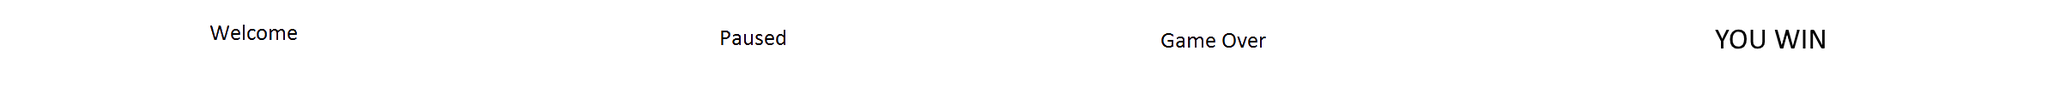
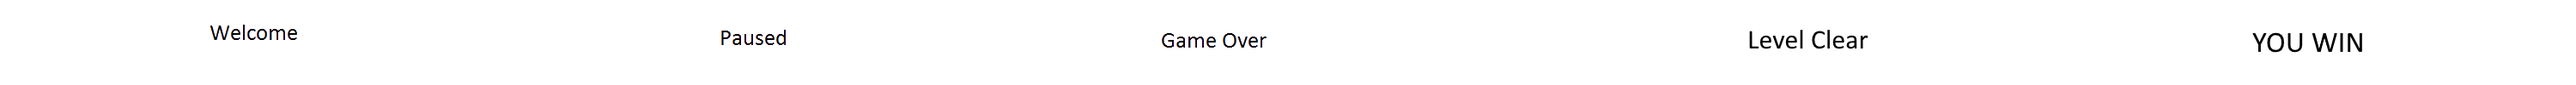
Menü verbessert, zueigt jetzt die richtigen Poausenachrichten an

diff --git a/src/LevelVerwaltung/SpielerVerwaltung/PlayerController.java b/src/LevelVerwaltung/SpielerVerwaltung/PlayerController.java
@@ -55,25 +55,25 @@ public class PlayerController {
             if (input.isKeyDown(Input.KEY_LEFT)) {
                 l.addShot(new Shot(
                     p.getWeapon().getProjectileImagePath(),
-                        p.getX()-4, p.getY() + p.getHeight() *2/3, 20, 5, 1, -p.getWeapon().getSpeed(), 0,p.getWeapon().isGravity()
+                        p.getX()-24, p.getY() + p.getHeight() *2/3, 20, 5, 1, -p.getWeapon().getSpeed(), 0,p.getWeapon().isGravity(), p.getWeapon().getDamage()
                 ));
                 p.setWeaponCooldownTicks(p.getWeapon().getCooldownTicks());
             } else if (input.isKeyDown(Input.KEY_RIGHT)) {
                 l.addShot(new Shot(
                         p.getWeapon().getProjectileImagePath(),
-                        p.getX()+ p.getWidth() + 4, p.getY() + p.getHeight() *2/3, 20, 5, 1, p.getWeapon().getSpeed(), 0,p.getWeapon().isGravity()
+                        p.getX()+ p.getWidth() + 4, p.getY() + p.getHeight() *2/3, 20, 5, 1, p.getWeapon().getSpeed(), 0,p.getWeapon().isGravity(), p.getWeapon().getDamage()
                 ));
                 p.setWeaponCooldownTicks(p.getWeapon().getCooldownTicks());
             } else if (input.isKeyDown(Input.KEY_UP)) {
                 l.addShot(new Shot(
                         p.getWeapon().getProjectileImagePath(),
-                        p.getX()+ p.getWidth()/2, p.getY() -4 , 20, 5, 1, 0, -p.getWeapon().getSpeed() ,p.getWeapon().isGravity()
+                        p.getX()+ p.getWidth()/2, p.getY() -9 , 20, 5, 1, 0, -p.getWeapon().getSpeed() ,p.getWeapon().isGravity(), p.getWeapon().getDamage()
                 ));
                 p.setWeaponCooldownTicks(p.getWeapon().getCooldownTicks());
             } else if (input.isKeyDown(Input.KEY_DOWN)) {
                 l.addShot(new Shot(
                         p.getWeapon().getProjectileImagePath(),
-                        p.getX()+p.getWidth()/2 , p.getY() + p.getHeight() +4 , 20, 5, 1, 0, p.getWeapon().getSpeed() ,p.getWeapon().isGravity()
+                        p.getX()+p.getWidth()/2 , p.getY() + p.getHeight() +4 , 20, 5, 1, 0, p.getWeapon().getSpeed() ,p.getWeapon().isGravity(), p.getWeapon().getDamage()
                 ));
                 p.setWeaponCooldownTicks(p.getWeapon().getCooldownTicks());
             }

diff --git a/src/SpielVerwaltung/GameController.java b/src/SpielVerwaltung/GameController.java
@@ -45,7 +45,7 @@ public class GameController{
 
         if (gameState == 1){
             int exit = levelController.update(gameContainer); // 0 für spielt weiter, 1 für oause, 2 für game over, 3 level clear
-            menuController.getTitleEntity().setAnimationPhase(exit);
+            menuController.getTitleEntity().setAnimationPhase(exit+1);
             if(exit == 1){
                 gameState = 2;
             } else if(exit ==2){
@@ -55,13 +55,14 @@ public class GameController{
                 levelnumber++;
                 if(levelnumber > maxLevelNumber){
                     gameState = 5;
+                    menuController.getTitleEntity().setAnimationPhase(exit+2);
                 }else {
                     levelController.loadLevel("level" + levelnumber + ".xml");
                 }
             }
         }
 
-        if (gameState == 2 || gameState ==4){
+        if (gameState == 2 || gameState ==4){ //Pausiert oder level clear
             int start = menuController.update(gameContainer);
             if (start ==1){
                 gameState =1;
@@ -70,13 +71,13 @@ public class GameController{
             }
         }
 
-        if (gameState == 3 || gameState == 5){
+        if (gameState == 3 || gameState == 5){ //Game over oder You win
             int start = menuController.update(gameContainer);
-            if(start == 1){
+            if(start == 1){ //Spiel starten
                 gameState = 1;
                 levelController.loadLevel("level1.xml");
                 levelnumber = 1;
-            }else if (start == 2) {
+            }else if (start == 2) { //Fullscreen
                 return true;
             }
         }

diff --git a/src/LevelVerwaltung/SchussVerwaltung/Shot.java b/src/LevelVerwaltung/SchussVerwaltung/Shot.java
@@ -17,16 +17,19 @@ public class Shot extends LevelEntity {
     private double speedY;
     private boolean dead;
     private boolean influencedByGravity;
-    public Shot(String path, double x, double y, int width, int height, int maxAnimPhase, double speedX, double speedY, boolean influencedByGravity) {
+    public Shot(String path, double x, double y, int width, int height, int maxAnimPhase, double speedX, double speedY, boolean influencedByGravity, int damage) {
         super(path, x, y, width, height, maxAnimPhase);
         this.speedX = speedX;
         this.speedY = speedY;
         this.influencedByGravity = influencedByGravity;
+        this.damage = damage;
         dead = false;
     }
 
     public void onCollision(Enemy e){
+        System.out.println("hit enemy");
         e.takeDamage(damage);
+        dead = true;
     }
 
     public void onCollision(Player p){

diff --git a/src/LevelVerwaltung/LevelFactory.java b/src/LevelVerwaltung/LevelFactory.java
@@ -1,5 +1,6 @@
 package LevelVerwaltung;
 
+import LevelVerwaltung.GegnerVerwaltung.Enemy;
 import org.newdawn.slick.Image;
 import org.newdawn.slick.SlickException;
 import org.newdawn.slick.util.xml.SlickXMLException;
@@ -33,6 +34,7 @@ public final class LevelFactory {
         l.addTile(new Tile("wall.png", 300, 460, 100, 40,1));
         l.addTile(new Tile("wall.png", 100, 300, 40, 400,1));
         l.addTile(new CoffeePack("durstloescher.png", 500, 400,20,20, 2, 70));
+        l.addEnemy(new Enemy("testenemy.png", 150, 460, 20,100,1,60,true, 30));
         l.getPlayer().setHealth(60);
         return l;
     }

diff --git a/src/LevelVerwaltung/GegnerVerwaltung/Enemy.java b/src/LevelVerwaltung/GegnerVerwaltung/Enemy.java
@@ -19,6 +19,7 @@ public class Enemy extends LevelEntity {
         this.health = health;
         this.isBoss = isBoss;
         dead = false;
+        isInvulnerable = false;
         this.damage = damage;
     }
 
@@ -27,9 +28,11 @@ public class Enemy extends LevelEntity {
 
     public void takeDamage(int damage){
         if(!isInvulnerable){
+            System.out.println(health + "," + damage);
             health -= damage;
             if(health <= 0) dead = true;
         }
+        System.out.println(health);
     }
 
     public boolean isDead() {
